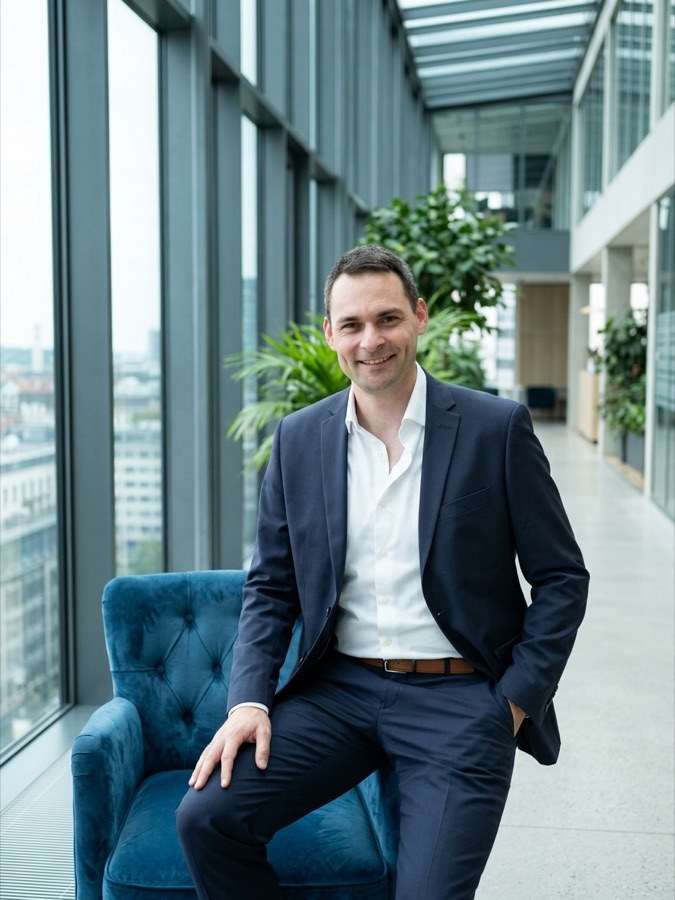
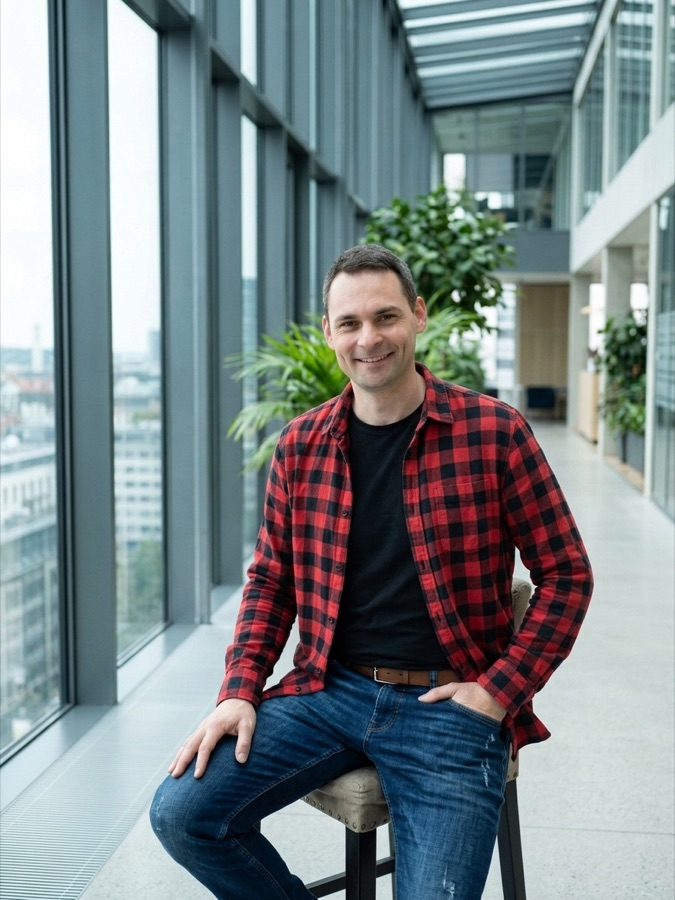
Fix mobile layout bugs and swap About page photo
Hero CTA buttons no longer wrap into an uneven stack on mobile — they
stay side-by-side like desktop at a smaller size. KPI stats row now
stacks cleanly with horizontal dividers instead of leaving orphaned
vertical borders when wrapped. Filter chips get stronger text contrast
to match the rest of the readability pass. Footer links wrap as whole
units instead of breaking mid-phrase.

Also swaps the About page's default photo to a casual one; the chicken
photo remains the hover reveal.

Changed region(s): [[0.0933, 0.28, 0.9022, 1.0]]

diff --git a/assets/site.css b/assets/site.css
@@ -254,10 +254,11 @@
 
 .chip {
   font-family: var(--font-mono);
+  font-weight: 500;
   font-size: 13.5px;
   padding: 9px 16px;
   border: 1px solid var(--line-soft);
-  color: var(--ink-body);
+  color: var(--ink);
   text-transform: uppercase;
   letter-spacing: 0.01em;
   transition: all 0.15s ease;
@@ -357,12 +358,14 @@ footer {
 
 .footer-links {
   display: flex;
-  gap: 24px;
+  flex-wrap: wrap;
+  gap: 10px 24px;
   font-family: var(--font-mono);
   font-size: 13.5px;
   text-transform: uppercase;
   color: var(--ink-body);
 }
+.footer-links a { white-space: nowrap; }
 .footer-links a:hover { color: var(--ink); }
 
 /* ================= Person page ================= */
@@ -674,7 +677,23 @@ footer {
     padding-top: 12px;
     border-top: 1px solid var(--line-soft);
   }
-  .stats-row > div { padding: 18px 20px; }
+  .hero-cta { flex-wrap: nowrap; }
+  .hero-cta .btn {
+    flex: 1 1 0;
+    padding: 13px 8px;
+    font-size: 11px;
+    letter-spacing: 0.01em;
+    justify-content: center;
+    white-space: nowrap;
+  }
+  .stats-row { flex-direction: column; }
+  .stats-row > div {
+    width: 100%;
+    padding: 16px 0;
+    border-right: none;
+    border-top: 1px solid var(--line-soft);
+  }
+  .stats-row > div:first-child { border-top: none; padding-top: 0; }
   .meta-item { border-right: none; margin-right: 0; padding-right: 0; width: 50%; }
   .avatar-xl { width: 76px; height: 76px; font-size: 26px; }
   .profile-nav { flex-direction: column; gap: 14px; }

diff --git a/about.html b/about.html
@@ -6,7 +6,7 @@
   <title>About — ProductMoat</title>
   <meta name="description" content="Meet Martin Knapic, the host of ProductMoat — an interview series for product people curious about how others found their way into the craft.">
   <link rel="stylesheet" href="assets/swiss.css?v=13">
-  <link rel="stylesheet" href="assets/site.css?v=14">
+  <link rel="stylesheet" href="assets/site.css?v=15">
 </head>
 <body>
   <nav class="nav">
@@ -24,8 +24,8 @@
   <section class="about-hero">
     <div class="wrap about-grid">
       <div class="about-photo-col">
-        <img class="about-photo about-photo-main" src="assets/photos/martin-knapic.jpg" alt="Martin Knapic">
-        <img class="about-photo about-photo-alt" src="assets/photos/martin-knapic-casual.jpg" alt="Martin Knapic, off duty">
+        <img class="about-photo about-photo-main" src="assets/photos/martin-knapic.jpg?v=2" alt="Martin Knapic">
+        <img class="about-photo about-photo-alt" src="assets/photos/martin-knapic-casual.jpg?v=2" alt="Martin Knapic, off duty">
       </div>
       <div class="about-text-col">
         <div class="eyebrow">The person behind ProductMoat</div>

diff --git a/index.html b/index.html
@@ -6,7 +6,7 @@
   <title>ProductMoat — Product People, in the Age of AI</title>
   <meta name="description" content="Conversations with product managers and product people around the world, on building product at the intersection of AI.">
   <link rel="stylesheet" href="assets/swiss.css?v=13">
-  <link rel="stylesheet" href="assets/site.css?v=14">
+  <link rel="stylesheet" href="assets/site.css?v=15">
 </head>
 <body>
   <nav class="nav">

diff --git a/map.html b/map.html
@@ -7,7 +7,7 @@
   <title>ProductMoat — Product People Around the World</title>
   <link rel="stylesheet" href="https://unpkg.com/maplibre-gl@5.6.0/dist/maplibre-gl.css">
   <link rel="stylesheet" href="assets/swiss.css?v=13">
-  <link rel="stylesheet" href="assets/site.css?v=14">
+  <link rel="stylesheet" href="assets/site.css?v=15">
   <link rel="stylesheet" href="style.css?v=13">
 </head>
 <body class="map-page">

diff --git a/person.html b/person.html
@@ -6,7 +6,7 @@
   <title>ProductMoat — Interview</title>
   <link rel="stylesheet" href="https://unpkg.com/maplibre-gl@5.6.0/dist/maplibre-gl.css">
   <link rel="stylesheet" href="assets/swiss.css?v=13">
-  <link rel="stylesheet" href="assets/site.css?v=14">
+  <link rel="stylesheet" href="assets/site.css?v=15">
 </head>
 <body>
   <nav class="nav">
